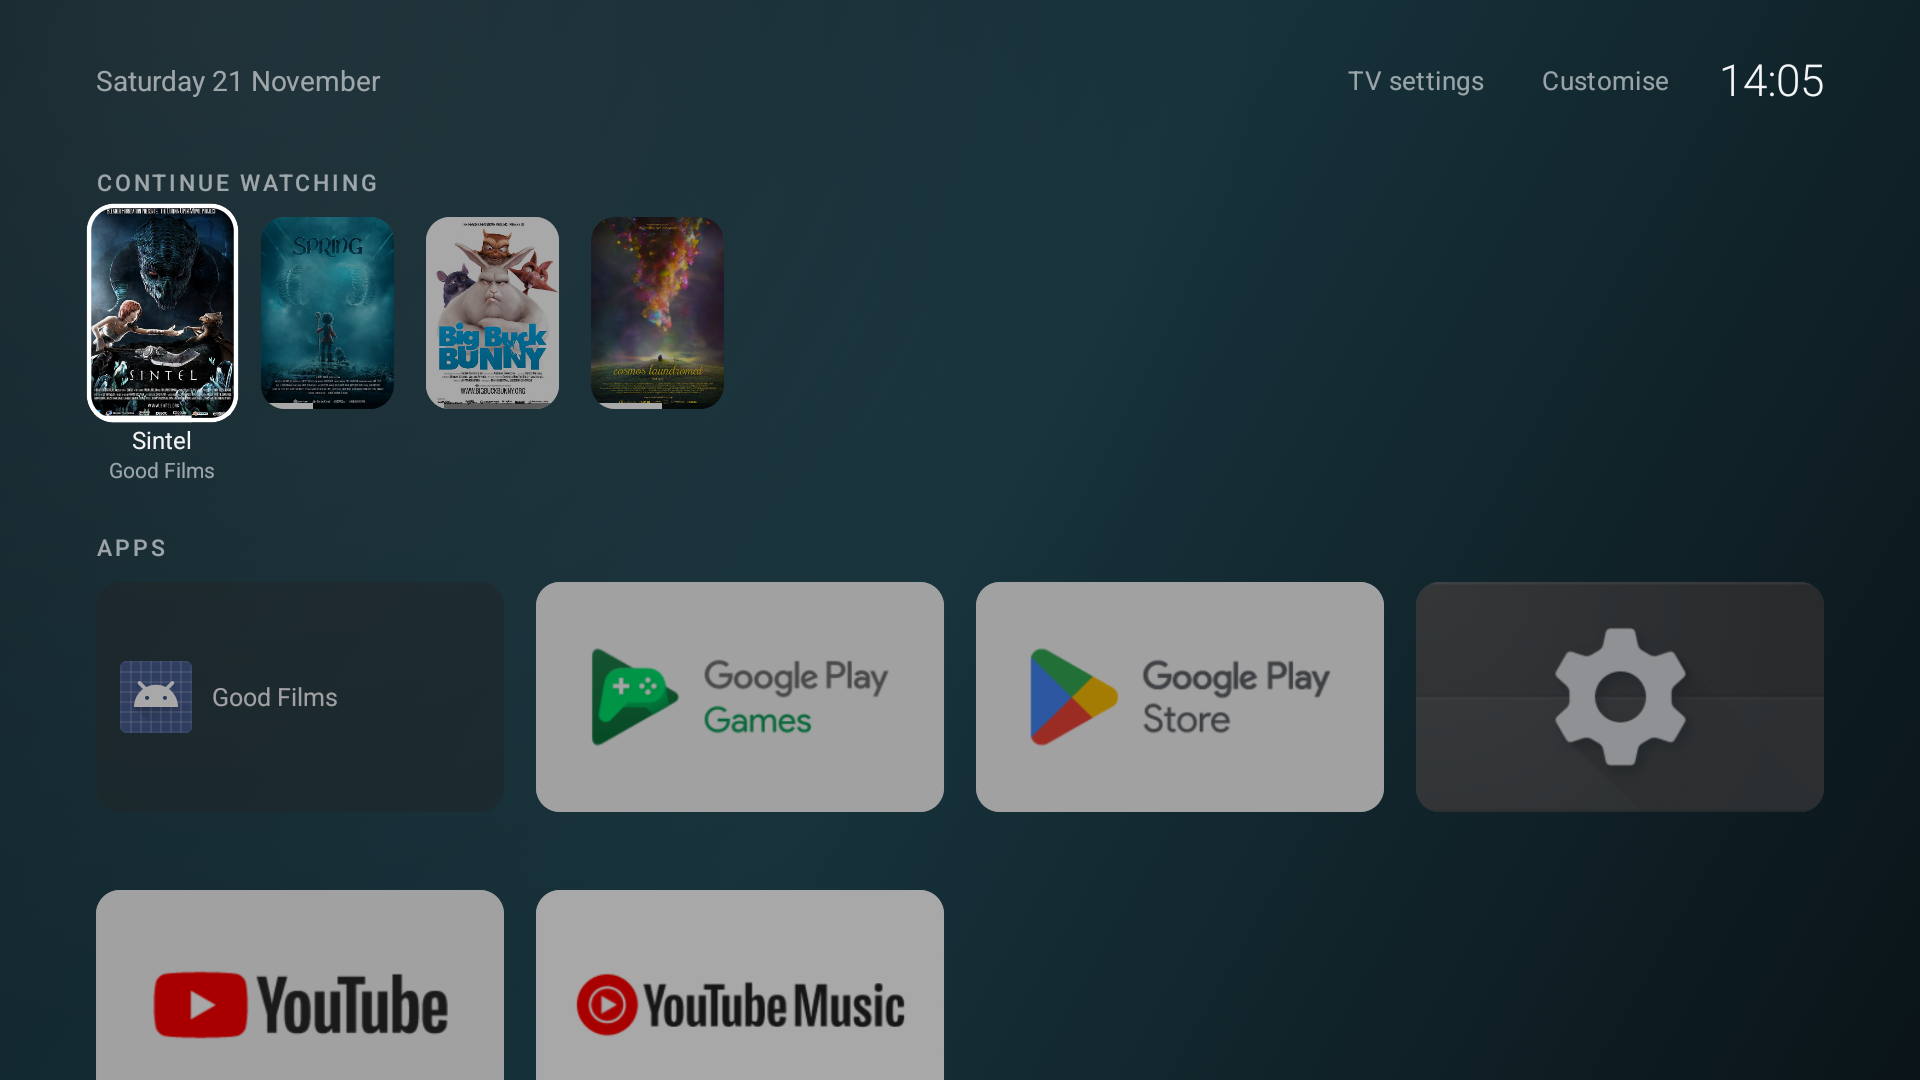
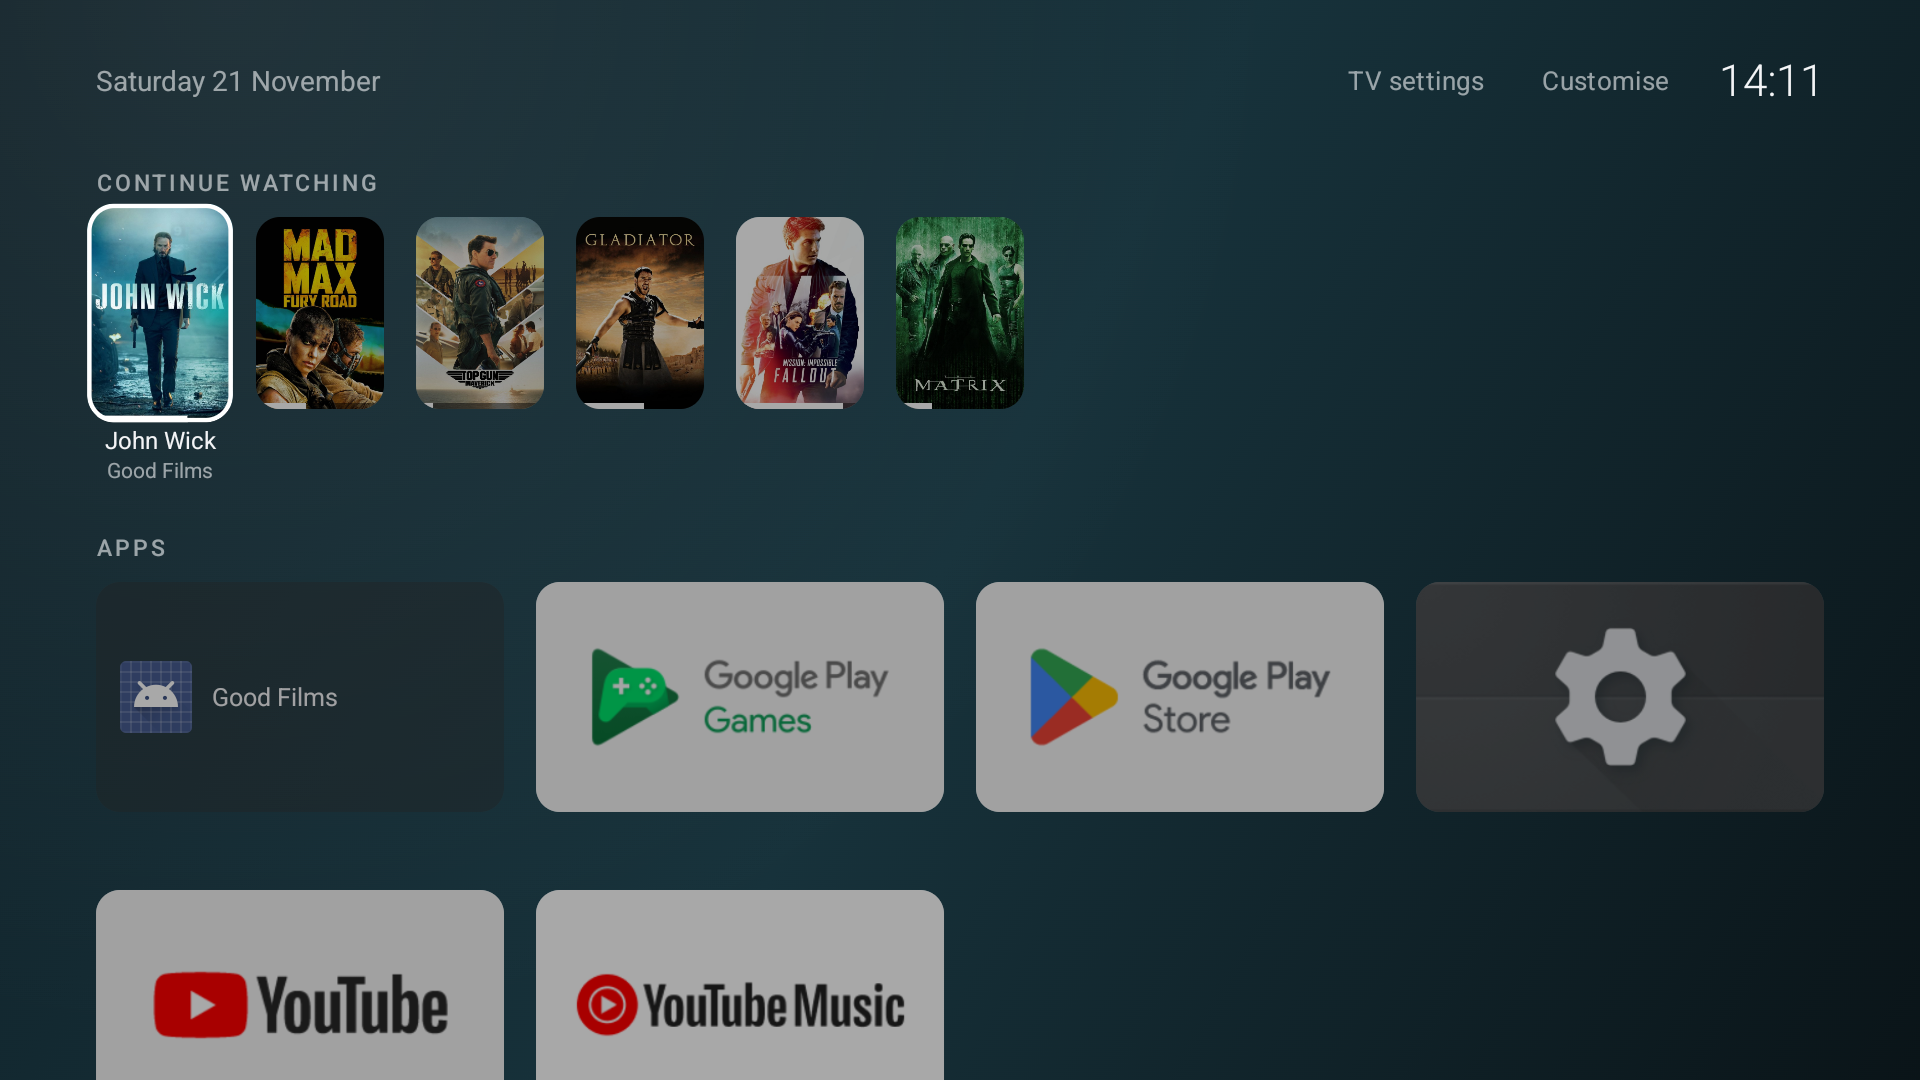
README: Continue watching screenshot with well-known films
The test app's demo mode can now be given any list of titles and poster addresses.

Changed region(s): [[0.0312, 0.1833, 0.5312, 0.4583], [0.9062, 0.0611, 0.9688, 0.0917]]

diff --git a/tools/test-apps/probe2/src/main/java/app/slate/probe2/PublishActivity.java b/tools/test-apps/probe2/src/main/java/app/slate/probe2/PublishActivity.java
@@ -11,6 +11,9 @@ import android.util.Log;
  * publishes four entries with posters instead (Blender open films, whose posters are CC BY
  * and hosted by Wikimedia Commons); the README's screenshot was made with it. Wikimedia limits
  * how fast one address may fetch, so more entries than this tend to come back without a poster.
+ *
+ * Mode "demo" with a "list" extra publishes that list instead, most recent first:
+ * `--es list "Title|https://host/poster.jpg;Another title|https://host/other.jpg"`.
  */
 public class PublishActivity extends Activity {
     private static final Uri LIST = Uri.parse("content://android.media.tv/watch_next_program");
@@ -21,13 +24,17 @@ public class PublishActivity extends Activity {
     }
 
     private void add(String title, long ago, String poster, int minutesWatched) {
+        add(title, ago, poster == null ? null : COMMONS + poster, minutesWatched, 5);
+    }
+
+    private void add(String title, long ago, String poster, int minutesWatched, int shape) {
         ContentValues v = new ContentValues();
         v.put("title", title);
         v.put("type", 0);
         v.put("watch_next_type", 0);
         v.put("intent_uri", "intent:#Intent;component=app.slate.probe2/.PlayActivity;end");
-        if (poster != null) v.put("poster_art_uri", COMMONS + poster);
-        v.put("poster_art_aspect_ratio", poster == null ? 0 : 5);
+        if (poster != null) v.put("poster_art_uri", poster);
+        v.put("poster_art_aspect_ratio", poster == null ? 0 : shape);
         v.put("last_engagement_time_utc_millis", System.currentTimeMillis() - ago);
         v.put("last_playback_position_millis", minutesWatched * 60000L);
         v.put("duration_millis", 90 * 60000L);
@@ -40,7 +47,16 @@ public class PublishActivity extends Activity {
         super.onCreate(state);
         try { getContentResolver().delete(LIST, null, null); } catch (Throwable t) { Log.i("SLATEPROBE", "good delete FAILED " + t); }
         String mode = getIntent().getStringExtra("mode");
-        if ("demo".equals(mode)) {
+        String list = getIntent().getStringExtra("list");
+        if ("demo".equals(mode) && list != null) {
+            // Posters given this way are taken to be 2:3, the usual shape of a film poster.
+            int[] watched = {62, 35, 12, 48, 75, 25};
+            String[] entries = list.split(";");
+            for (int i = 0; i < entries.length; i++) {
+                String[] parts = entries[i].split("\\|", 2);
+                if (parts.length == 2) add(parts[0].trim(), 60000L * (i + 1), parts[1].trim(), watched[i % watched.length], 4);
+            }
+        } else if ("demo".equals(mode)) {
             add("Sintel", 60000, "8/8f/Sintel_poster.jpg/500px-Sintel_poster.jpg", 62);
             add("Spring", 120000, "2/25/Spring2019AlphaPosterBlender.jpg/500px-Spring2019AlphaPosterBlender.jpg", 35);
             add("Big Buck Bunny", 180000, "c/c5/Big_buck_bunny_poster_big.jpg/500px-Big_buck_bunny_poster_big.jpg", 12);

diff --git a/README.md b/README.md
@@ -15,9 +15,9 @@ optional Continue watching row, and the screensaver's Picture of the Day from Wi
 |---|---|---|
 | ![The Customise panel](docs/customise.png) | ![Appearance settings](docs/appearance.png) | ![Options for one app](docs/app-options.png) |
 
-<sub>Posters in the second screenshot: *Sintel*, *Spring*, *Big Buck Bunny* and *Cosmos Laundromat*,
-© Blender Foundation (*Cosmos Laundromat*: Andy Goralczyk and the Blender Foundation), CC BY 3.0 / 4.0,
-via Wikimedia Commons. They come from the test app in `tools/test-apps/probe2`.</sub>
+<sub>The film posters in the second screenshot belong to their respective owners and are shown only
+to illustrate the row; they are not part of Slate. The entries were published by the test app in
+`tools/test-apps/probe2`, with poster images served by TMDB.</sub>
 
 ## Install
 
